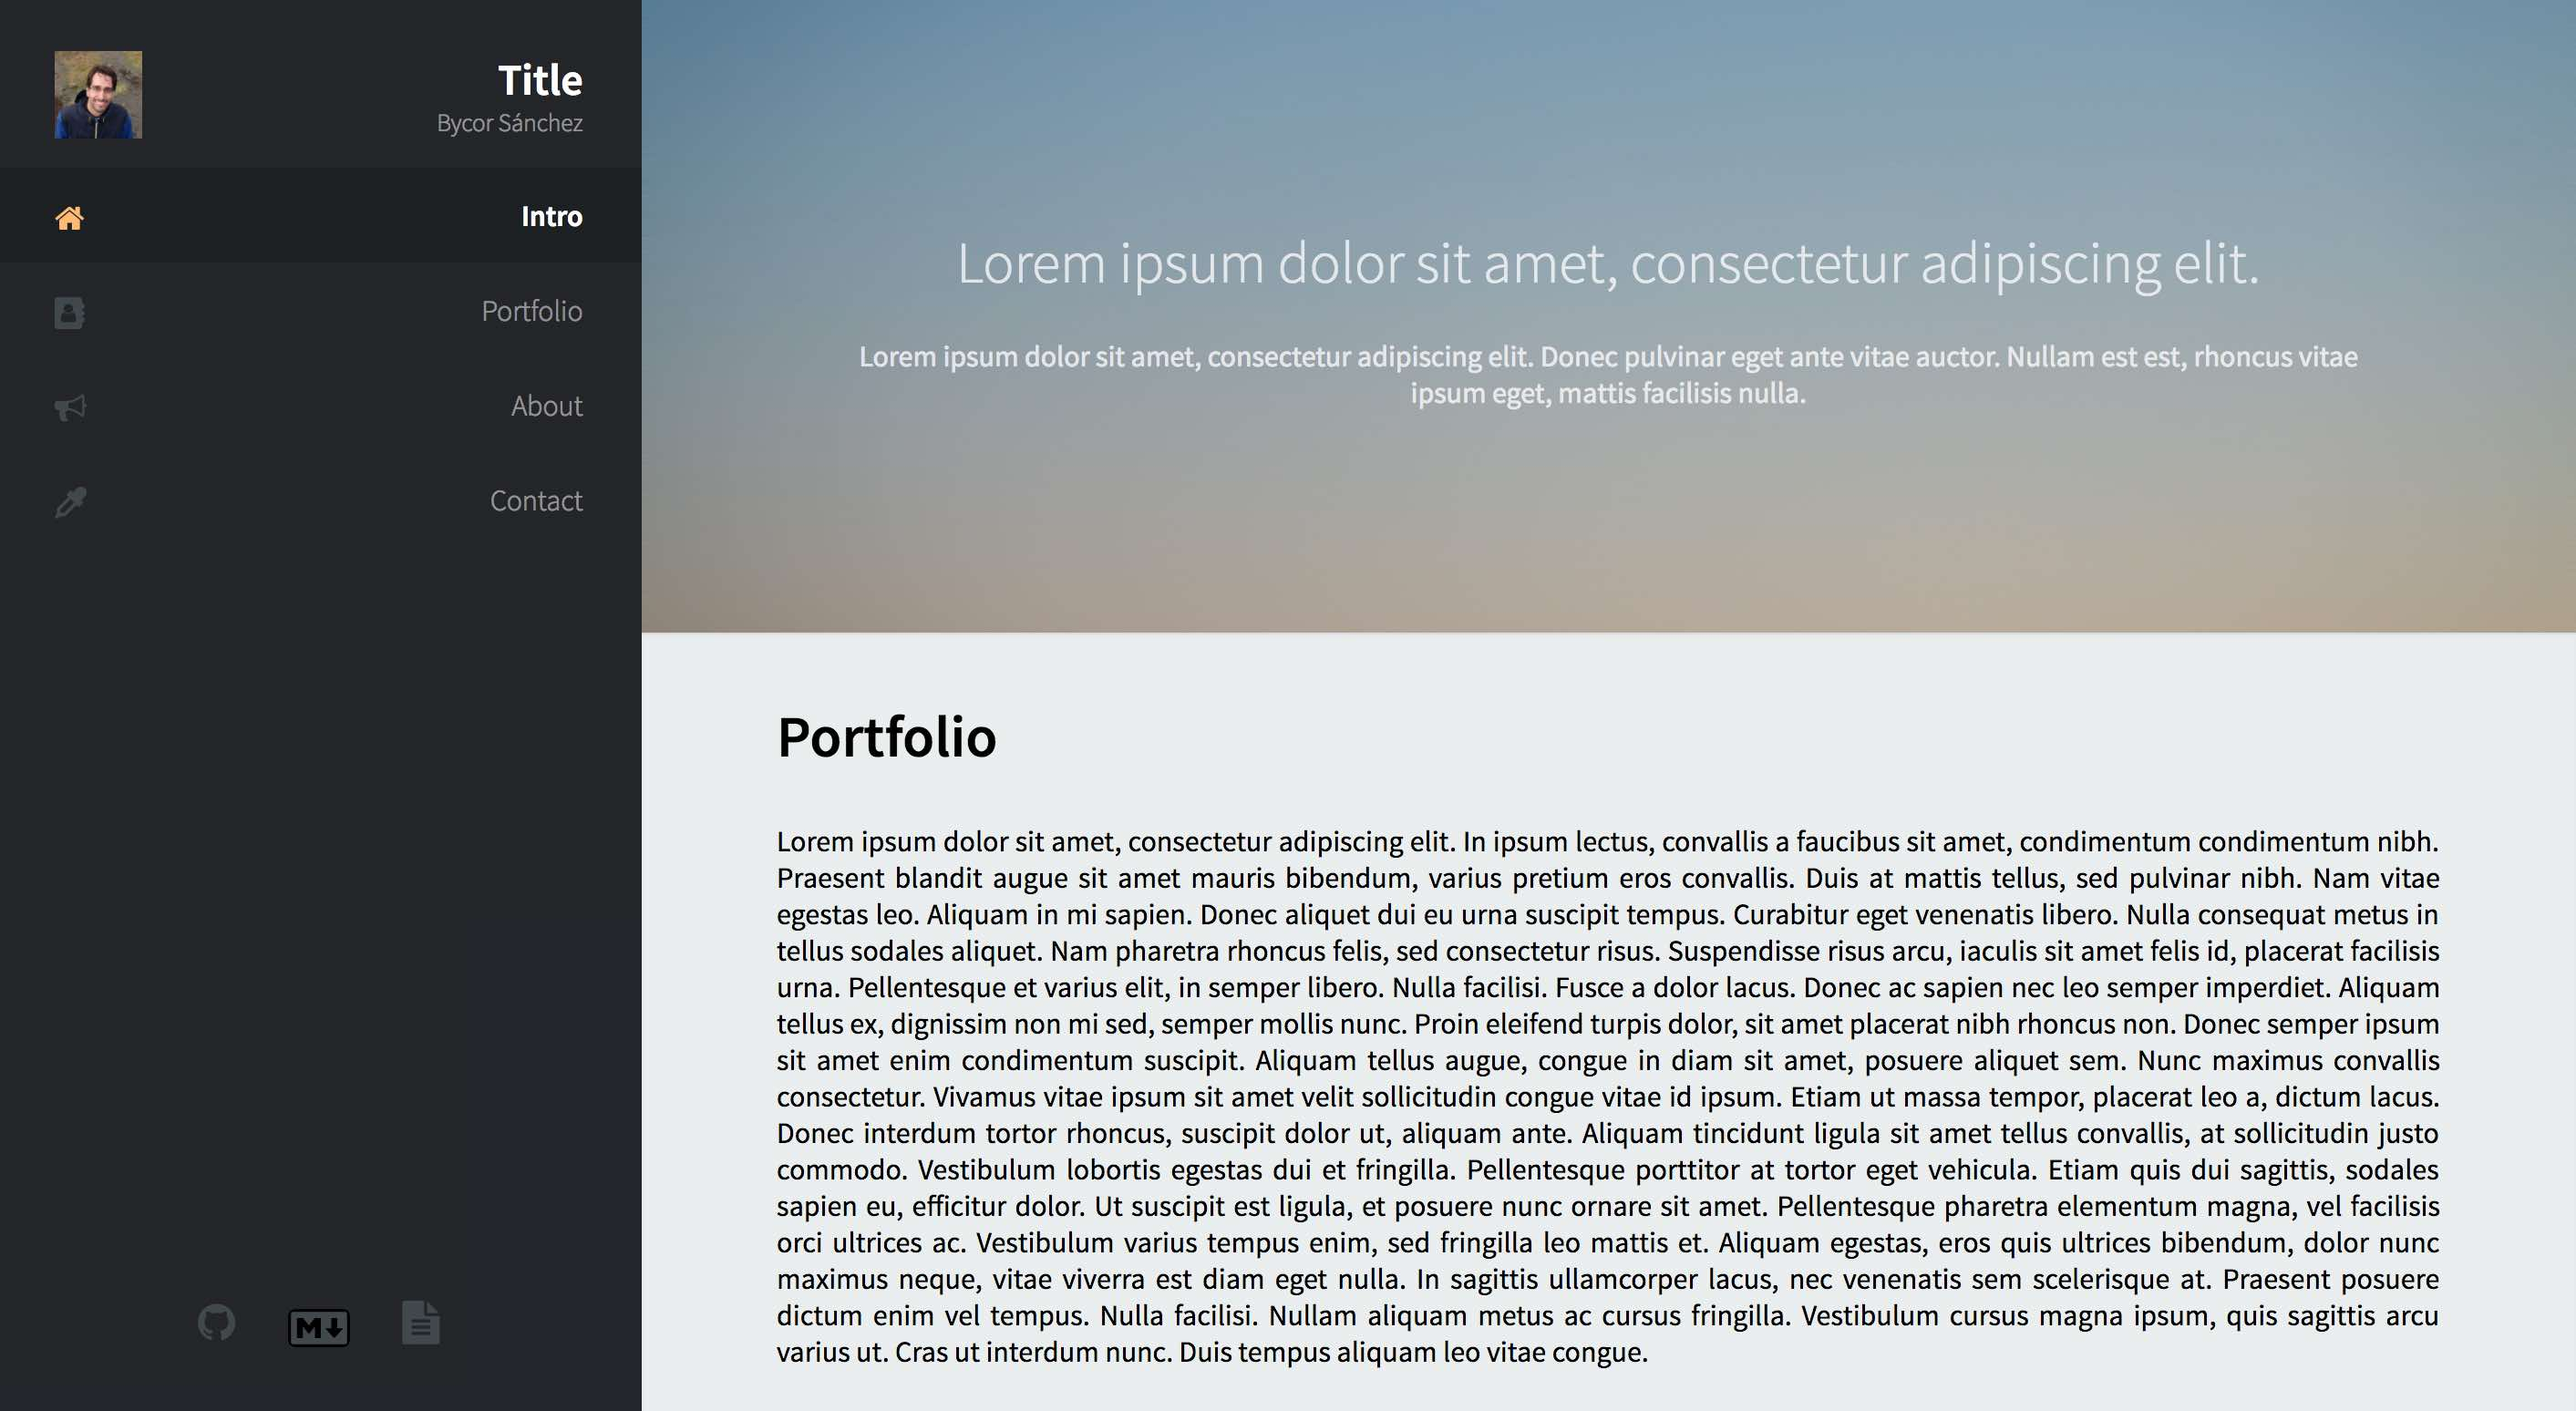
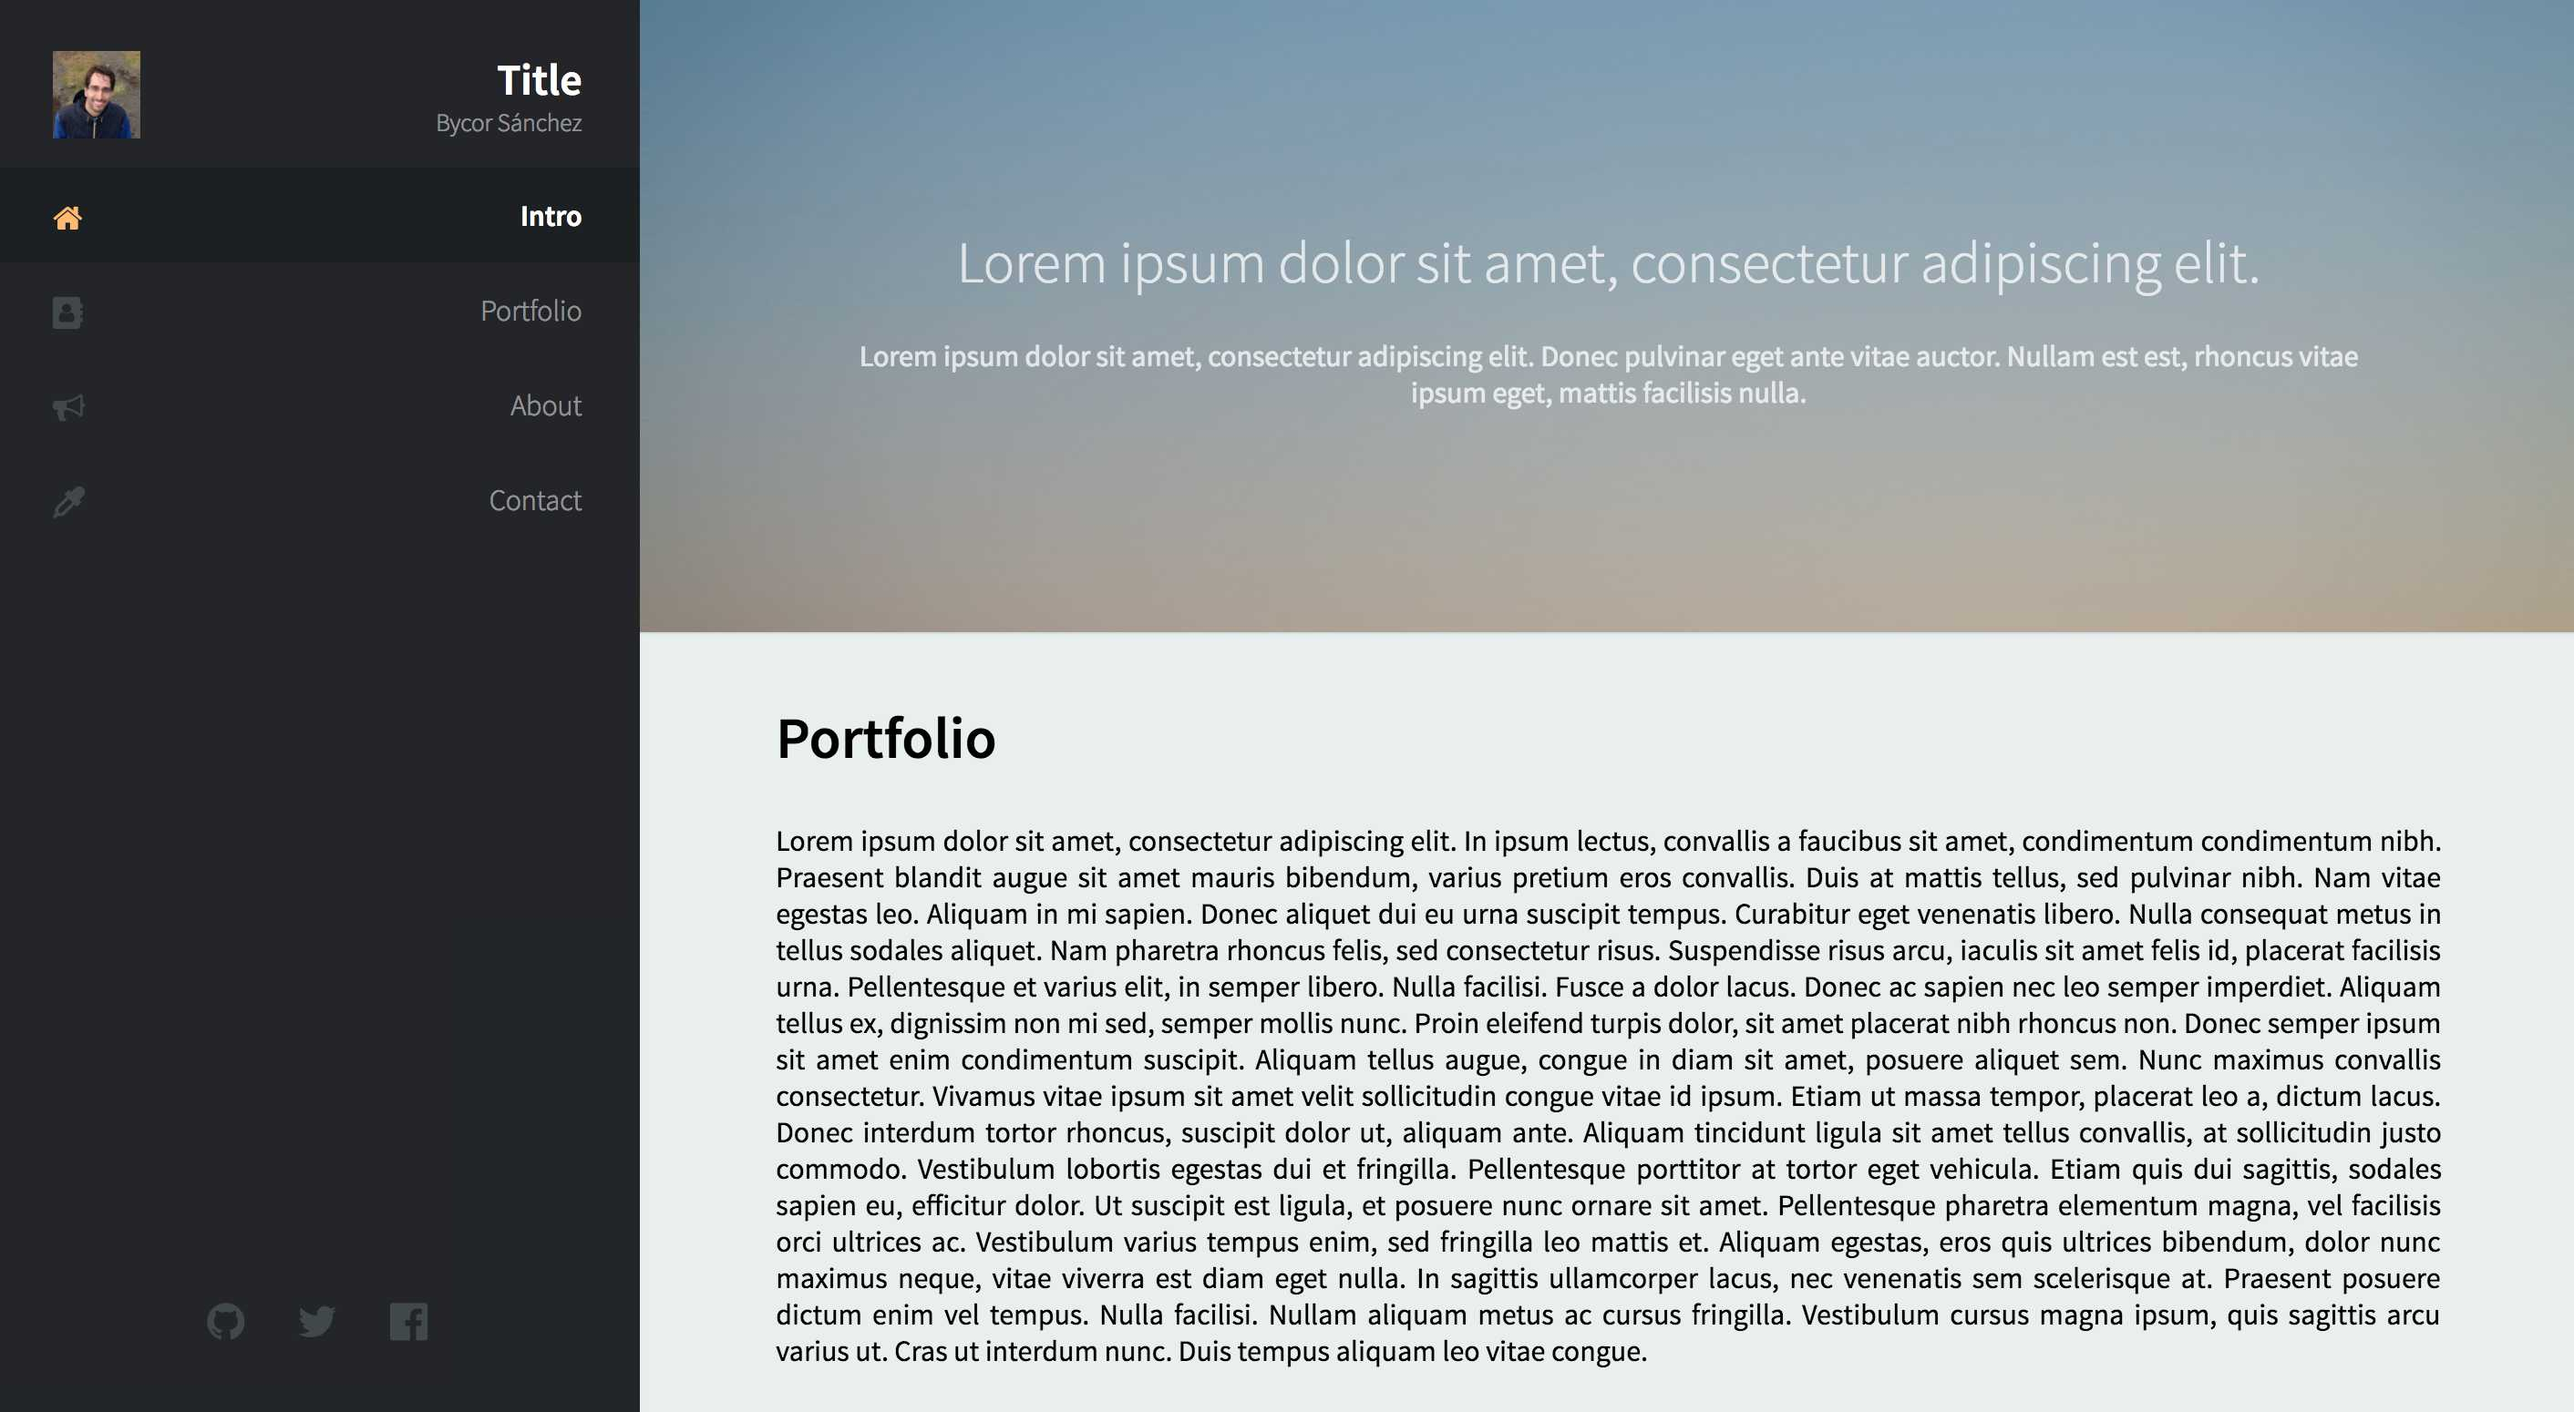
Add back to top link

diff --git a/webs/13-12272017/layout.html b/webs/13-12272017/layout.html
@@ -15,7 +15,7 @@
                 <img src="images/profile.jpg" alt="Logo">
                 <a href="#top">
                     <h2>Title</h2>
-                    <p>Bycor Sánchez</p>
+                    <p>Subtitle</p>
                 </a>
             </div>
             <nav id="nav">
@@ -29,8 +29,9 @@
         </header>
         <footer id="menu-footer">
             <a href="#" title="GitHub"><i class="fa fa-github"></i></a>
-            <a href="#" title="Markdown"><img src="images/markdown.svg" alt="MarkDown" class="markdown"></a>
-            <a href="#" title="PDF"><i class="fa fa-file-text"></i></a>
+            <a href="#" title="Twitter"><i class="fa fa-twitter"></i></a>
+            <a href="#" title="Facebook"><i class="fa fa-facebook-official"></i></a>
+            <!-- <a href="#" title="Markdown"><img src="images/markdown.svg" alt="MarkDown" class="markdown"></a> -->
         </footer>
     </div>
     <div id="main">
@@ -51,10 +52,12 @@
             <p>Lorem ipsum dolor sit amet, consectetur adipiscing elit. In ipsum lectus, convallis a faucibus sit amet, condimentum condimentum nibh. Praesent blandit augue sit amet mauris bibendum, varius pretium eros convallis. Duis at mattis tellus, sed pulvinar nibh. Nam vitae egestas leo. Aliquam in mi sapien. Donec aliquet dui eu urna suscipit tempus. Curabitur eget venenatis libero. Nulla consequat metus in tellus sodales aliquet. Nam pharetra rhoncus felis, sed consectetur risus. Suspendisse risus arcu, iaculis sit amet felis id, placerat facilisis urna. Pellentesque et varius elit, in semper libero. Nulla facilisi. Fusce a dolor lacus. Donec ac sapien nec leo semper imperdiet. Aliquam tellus ex, dignissim non mi sed, semper mollis nunc. Proin eleifend turpis dolor, sit amet placerat nibh rhoncus non. Donec semper ipsum sit amet enim condimentum suscipit. Aliquam tellus augue, congue in diam sit amet, posuere aliquet sem. Nunc maximus convallis consectetur. Vivamus vitae ipsum sit amet velit sollicitudin congue vitae id ipsum. Etiam ut massa tempor, placerat leo a, dictum lacus. Donec interdum tortor rhoncus, suscipit dolor ut, aliquam ante. Aliquam tincidunt ligula sit amet tellus convallis, at sollicitudin justo commodo. Vestibulum lobortis egestas dui et fringilla. Pellentesque porttitor at tortor eget vehicula. Etiam quis dui sagittis, sodales sapien eu, efficitur dolor. Ut suscipit est ligula, et posuere nunc ornare sit amet. Pellentesque pharetra elementum magna, vel facilisis orci ultrices ac. Vestibulum varius tempus enim, sed fringilla leo mattis et. Aliquam egestas, eros quis ultrices bibendum, dolor nunc maximus neque, vitae viverra est diam eget nulla. In sagittis ullamcorper lacus, nec venenatis sem scelerisque at. Praesent posuere dictum enim vel tempus. Nulla facilisi. Nullam aliquam metus ac cursus fringilla. Vestibulum cursus magna ipsum, quis sagittis arcu varius ut. Cras ut interdum nunc. Duis tempus aliquam leo vitae congue.</p>
         </section>
         <footer id="footer">
-            Bycor Sánchez Sánchez - 2017
+            <p>Developed by:<a href="https://github.com/BycorSanchez" title="Bycor Github">Bycor Sánchez</a></p>
+            <p>Design:<a href="https://html5up.net/" title="HTML5UP">HTML5UP</a></p>
+            <a href="#top" title="Back to top" id="topIcon" class="icon"><i class="fa fa-arrow-up"></i></a>
         </footer>
     </div>
-    <div id="menu-icon">
+    <div id="menu-icon" class="icon">
         <a href="#menu"><i class="fa fa-bars"></i></a>
     </div>
 </body>

diff --git a/webs/13-12272017/layout.css b/webs/13-12272017/layout.css
@@ -8,7 +8,6 @@ body {
     font-family: 'Source Sans Pro', sans-serif;
 }
 
-
 /* 
     Palette 
         Menu
@@ -53,6 +52,10 @@ h1 {
 
 ul {
     list-style-type: none;
+}
+
+a {
+    text-decoration: none;
 }
 
 .banner {
@@ -162,7 +165,11 @@ ul {
 
 #menu-footer .fa:hover {
     color: #ffffff;
+
     transition: color 0.4s ease-in-out;
+    -webkit-transition: color 0.4s ease-in-out;
+    -moz-transition: color 0.4s ease-in-out;
+    -o-transition: color 0.4s ease-in-out;
 }
 
 /* Markdown ico */
@@ -172,7 +179,11 @@ ul {
     width: 34px;
     border-radius: 4px;
     background-color: #41484c;
+
     transition: background-color 0.3s ease-in-out;
+    -webkit-transition: background-color 0.3s ease-in-out;
+    -moz-transition: background-color 0.3s ease-in-out;
+    -o-transition: background-color 0.3s ease-in-out;
 }
 
 .markdown:hover {
@@ -208,11 +219,20 @@ ul {
 }
 
 #footer {
-    padding: 2.5em 0 3.5em 0;
+    padding: 2em 1em 3em 1em;
     text-align: center;
     color: #888888;
     font-weight: lighter;
     background-color: #dce3e2;
+}
+
+#footer * {
+    display: inline;
+    margin: 0 0.5em;
+}
+
+#topIcon {
+    float: right;
 }
 
 /* Custom Scroll bar */
@@ -245,9 +265,19 @@ ul {
     margin: 1em;
 }
 
-#menu-icon .fa {
+#top-icon {
+    display: none;
+    position: fixed;
+    right: 0;
+    bottom: 0;
+    outline: 0;
+    border: 0;
+    margin: 1em;
+}
+
+.icon .fa {
     color: #ffffff;
-    padding: 0.5em 0.8em;
+    padding: 0.5em 0.7em;
     background-color: rgba(128, 136, 144, 0.5);
     border-radius: 10%;
 }
@@ -288,23 +318,36 @@ ul {
 
 @media screen and (max-width: 736px) {
 
-    body{
+    body {
         overflow-x: hidden;
     }
 
     #menu {
+        visibility: hidden;
         opacity: 0;
+
         transition: all 0.4s ease-out;
+        -webkit-transition: all 0.4s ease-out;
+        -moz-transition: all 0.4s ease-out;
+        -o-transition: all 0.4s ease-out;
     }
 
     #main {
         margin-left: 0;
+
         transition: all 0.4s ease-in-out;
+        -webkit-transition: all 0.4s ease-in-out;
+        -moz-transition: all 0.4s ease-in-out;
+        -o-transition: all 0.4s ease-in-out;
     }
 
     #menu-icon {
         display: block;
+
         transition: transform 0.4s ease-in-out;
+        -webkit-transition: transform 0.4s ease-in-out;
+        -moz-transition: transform 0.4s ease-in-out;
+        -o-transition: transform 0.4s ease-in-out;
     }
 
     /*  Hide scrollbar */
@@ -321,6 +364,7 @@ ul {
     }
 
     body.menu-visible #menu {
+        visibility: visible;
         opacity: 1;
         display: flex;
         width: 275px;

diff --git a/webs/13-12272017/main.js b/webs/13-12272017/main.js
@@ -1,44 +1,47 @@
 $(document).ready(function() {
 
-    function updateActive() {
-        const activeLink = 'active-link';
-        const position = $(this).scrollTop();
+    const activeClass = 'active-link';
+    const menuVisibleClass = 'menu-visible';
+    
 
+    function smoothScroll(target) {
+        $('html, body').animate({
+            scrollTop: $(target).offset().top
+        }, 'linear');
+    };
+
+    function toggleMenu() {
+        $('body').toggleClass(menuVisibleClass);
+    };
+
+    function updateActive(position) {
         $('#nav a').each(function() {
             let link = $(this);
             let reference = $(link.attr("href"));
 
             let top = reference.position().top - 1;
-            let bottom = top + reference.height() + 1;
+            let bottom = top + reference.outerHeight();
 
             if (top <= position && bottom > position) {
-                $('#nav').find('a').removeClass(activeLink);
-                link.addClass(activeLink);
+                $('#nav').find('a').removeClass(activeClass);
+                link.addClass(activeClass);
             } else {
-                link.removeClass(activeLink);
+                link.removeClass(activeClass);
             }
         });
     };
 
-    function toggleMenu() {
-        $('body').toggleClass('menu-visible');
-    };
-
-    function smoothScroll(target) {
-        if (target === '#') return;
-
-        $('html, body').animate({
-            scrollTop: $(target).offset().top
-        }, 450, 'linear');
-    };
-
-
     $('#menu header').on('click', 'a', function(event) {
         event.preventDefault();
-        smoothScroll($(this).attr('href'));
+
+        const reference = $(this).attr('href');
+        if (reference !== '#') smoothScroll(reference);
     });
 
     $('#menu-icon').click(toggleMenu);
 
-    $(document).on("scroll", updateActive);
+    $(document).on("scroll", function() {
+        let position = $(this).scrollTop();
+        updateActive(position);
+    });
 });
